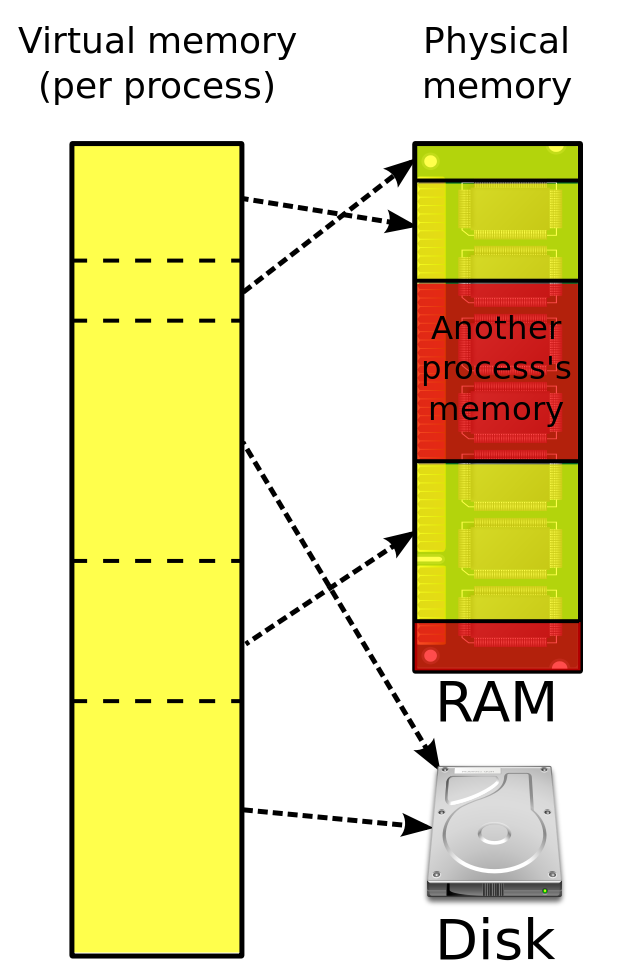
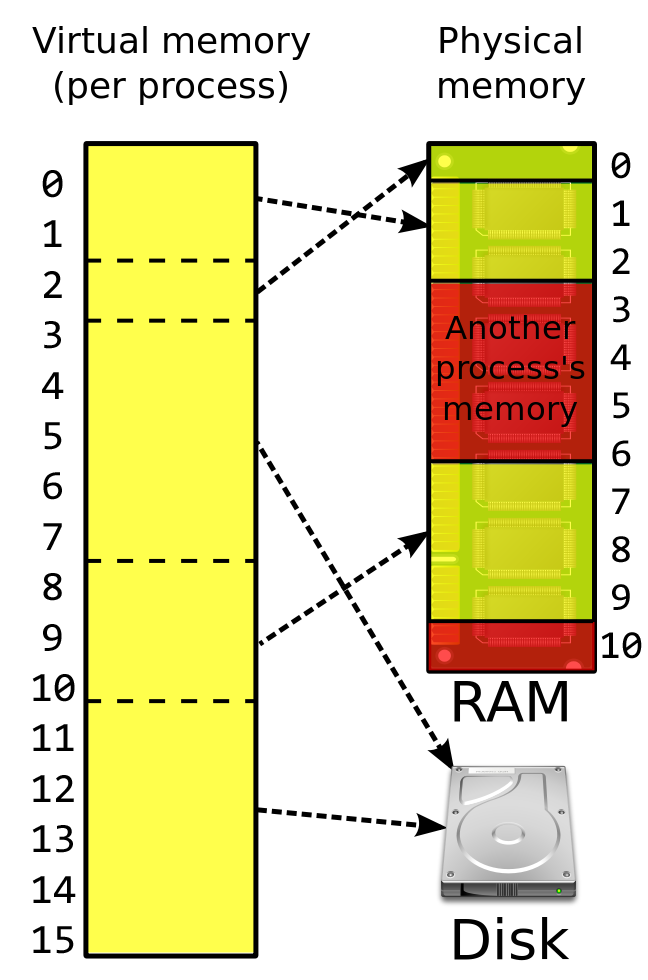
Heavy edits to OS/ParallelProcessing

diff --git a/_sources/ParallelProcessing/AmdahlsLaw.rst b/_sources/ParallelProcessing/AmdahlsLaw.rst
@@ -6,7 +6,7 @@ Parallel vs Serial Performance
     
 Having multiple core computers is wonderful if you want to do multiple jobs at one time. But it does not necessarily improve our ability to do any one particular job faster. That is because normal algorithms do not always divide up into equal sized chunks of work. 
 
-For any given task, there are likely parts that are **serial** (ones that must be done in order) and parts that are **parallel** (that can be done at the same time or even out of order). Say I have a giant pile of index cards with definitions written on them but the cards are all jumbled up and I want to find one with information about Amdahl's Law and add facts from it to this page. Fortunately I have 4 friends with me. I could divide up the cards, give each person a pile and tell them what to look for. Then all five of us could search our pile. Once someone finds the right card, they can announce it and give it back for me to use. This program might look like:
+For any given task, there are likely parts that are **serial** (ones that must be done in order) and parts that are **parallel** (that can be done at the same time or even out of order). Say I have a giant pile of index cards with definitions written on them. I want to find one with information about Amdahl's Law and add facts from it to this page but the cards are all jumbled up. Fortunately I have 4 friends with me. I could divide up the cards, give each person a pile and tell them what to look for. Then all five of us could search our pile. Once someone finds the right card, they can announce it and give it back for me to use. This program might look like:
 
 .. faux_code::
 
@@ -18,21 +18,21 @@ For any given task, there are likely parts that are **serial** (ones that must b
 
 Searching piles for the right card should only take 1/5th as long with 5 people looking. But dividing up the piles, communicating and typing up the fact will not go any faster. I could add 95 more friends and cut the "looking" phase down to 1/100th of the original time, but that won't help me type the information we find up any faster. We can speed up parallel parts by doing them simultaneously, but serial portions can not be sped up.
 
-The figure below on the left shows how the total time depends on how much work can be split up and how many workers we have. The one on the right compares total time on a hypothetical job for 1-5 workers.
+The figure below on the left shows how the total time depends on how much work can be split up and how many workers we have. The one on the right compares total time on a hypothetical job for 1-5 workers. Notice that although more workers means less time on the parallel part, the serial part always takes the same time.
 
 .. container:: inlinegroup
 
     .. figure:: Images/amdahl1.png
         :figwidth: 45%
         
-        Effect of splitting parallel part of job in 5
+        Effect of splitting parallel part of job in 5.
         
         
     
     .. figure:: Images/amdahl2.png
         :figwidth: 45%
 
-        Going from 1 to 2 workers has more effect than going from 4 to 5
+        Going from 1 to 2 workers has more effect than going from 4 to 5.
 
 |br|
        
@@ -42,17 +42,17 @@ This feature of diminishing returns due to a serial part of problems was codifie
 
 :math:`\textrm{Speedup}(N) = \frac{1}{(1-P) + \frac{P}{N}}`
 
-Say 60% of a job can be made parallel and we use 2 processors. Substituting into the formula gives:
+Say 60% of a job can be made parallel and we use 2 processors. Substituting .60 for **P** and 2 for **N** into the formula gives:
 
 :math:`\textrm{Speedup}(N) = \frac{1}{(1-P) + \frac{P}{N}} = \frac{1}{(1-0.60) + \frac{0.60}{2}} = \frac{1}{0.70} = 1.43`
 
-40% of the work needs to be done in serial. The other 60% is split into two equal parts, so instead of taking 60% of the time only takes 30%. So we can get the work done in 70% of the original time, or 1.43x faster.
+We would see a speedup of 1.43 times. 40% of the work needs to be done in serial. The other 60% is split into two equal parts, so instead of taking 60% of the time only takes 30%. So we can get the work done in 70% of the original time, or 1.43x faster.
 
 Lets say we use 3 workers on the same job:
 
 :math:`\textrm{Speedup}(N) = \frac{1}{(1-P) + \frac{P}{N}} = \frac{1}{(1-0.60) + \frac{0.60}{3}} = \frac{1}{0.60} = 1.67`
 
-We get the work done 1.67 times faster than with one worker (takes 60% of the original time). Better, but we are already seeing the diminishing returns of multiple workers. If we try putting 60 workers into that formula it predicts a total speedup of only 2.43x over one worker. The image below shows the speedup possible for jobs with 50%, 75%, 90% and 95% parallel portions. 
+We get the work done 1.67 times faster than with one worker (i.e. the work takes 60% of the original time). Better, but we are already seeing the diminishing returns of multiple workers. The first extra worker made the process 43% faster - the second extra worker only increased by 24% more. If we try putting 60 workers into that formula it predicts a total speedup of only 2.43x over one worker! The image below shows the speedup possible for jobs with 50%, 75%, 90% and 95% parallel portions. 
 
 .. figure:: Images/AmdahlsLaw.png
 

diff --git a/_sources/OperatingSystems/VirtualMemory.rst b/_sources/OperatingSystems/VirtualMemory.rst
@@ -5,17 +5,24 @@
 Memory Management
 =================================
 
-Modern computer processors have memory addresses `given by 48 bits <http://en.wikipedia.org/wiki/X86-64#Virtual_address_space_details>`__. That means they can store address :math:`2^{48}` (256TB - over 200 trillion) different byte location. On the other hand, a nice personal computer may only have 8 GB (or ~8 billion bytes) of actual main memory (RAM). In other words, a program may think it can store information in 200 trillion different locations but there are only 8 billion actual places where a byte can go in memory.
+Modern PC processors often have memory addresses `given by 48 bits <http://en.wikipedia.org/wiki/X86-64#Virtual_address_space_details>`__. That means they can store address :math:`2^{48}` (256TB - over 200 trillion) different byte location. On the other hand, a nice personal computer may only have 8 GB (or ~8 billion bytes) of actual main memory (RAM). In other words, a program may think it can store information in 200 trillion different locations but there are only 8 billion actual places where a byte can go in memory.
 
 Not only are there significantly more addresses that a program is allowed to use than actually exist, every program that is running thinks it gets to use nearly the entire memory space. Two programs may both decide to store a piece of information at byte address #100000 - the operating system needs to make sure that neither program destroys the other's information and that they can both get to what they stored.
 
-Operating systems can address both of these issues through memory address visualization. The basic idea is that the operating system takes any memory reference from a program and remaps it to a location in main memory. What a program thinks is address #100000 may actually be at address #203434. When a second program asks to store information at address #100000, that is mapped to a completely different location, say #834255.
+Operating systems can address both of these issues through memory address visualization. The basic idea is that the operating system takes any memory reference from a program (a **virtual address**) and remaps it to a location in main memory. What a program thinks is address #100000 may actually be at address #203434. When a second program asks to store information at address #100000, that is mapped to a completely different location, say #834255.
 
-If main memory is full, the operating system moves information to secondary memory (like the hard drive) but pretends it is still in main memory (this trick is known as **virtual memory**).
+If main memory is full, the operating system moves information to secondary memory (like the hard drive) but pretends it is still in main memory (this trick is known as **virtual memory**). Although this allows the computer to pretend there is more RAM available, it also means that any access of that memory involves retrieving it from the hard drive, which is tens of thousands of times slower. When needed, it will be swapped into memory and something else will be moved to the hard drive. If multiple programs are fighting over a limited memory and keep kicking each other to the hard drive. If you have ever started up too many programs at once and had your computer grind to a crawl, you have seen this in practice.
   
 .. figure:: Images/Virtual_memory.png
-    :figwidth: 60%
+    :figwidth: 90%
+    :width: 300
 
     `Image via Wikipedia Commons <http://en.wikipedia.org/wiki/Virtual_memory#mediaviewer/File:Virtual_memory.svg>`__ - `Creative Commons CC BY SA 3.0 <http://creativecommons.org/licenses/by-sa/3.0/>`__
+    
+    The 15 memory addresses a program is using and how they might be stored in hardware. When the program asks for address 1 it actually makes use of physical address 2, when it asks for 2 it gets address 0. 
+    
+    Some parts of main memory area (3-6 and 10) in use by other programs and not available to the "yellow" program. 
+    
+    Because the program is using more memory than is actually available in RAM, its memory address3-7 and 11-15 are currently actually being stored on the hard drive.
    
-The operating system (working with the hardware) must do a lot of extra work to manage this mapping. Each time a program refers to a memory location, the OS must look up the correct address and reroute the memory access. As main memory fills up, information must be moved to the hard drive and then swapped back into main memory again when needed.
+However, all this juggling is compltely invsible to running programs. The operating system provides the abstraction of a nice clean sequential set of memory addresses for each program to use while doing complicated tricks in the background to allocate the physical hardware among all the different running processes.

diff --git a/_sources/ParallelProcessing/MultiProcessing.rst b/_sources/ParallelProcessing/MultiProcessing.rst
@@ -15,19 +15,19 @@ Multi Processing
    
 In the year 2002, Intel's flagship consumer processor was the Pentium 4 running at 3.06 GHz (meaning the CPU clock ticks 3 billion times per second). The architecture of this processor was supposed to scale up to 10 GHz, but by 2005, Intel had to abandon the architecture as the power density of the chips was becoming unmanageable. Intel shifted to a new strategy and architecture called the Core architecture. 
 
-These new chips were not clocked as fast as the ones they replaced, but they featured multiple processing cores.  Chip designers had figured out that by reducing the clock speed by say 20%, they could also reduce the voltage, cutting the power required by the processor nearly in half. The chip might not be quite as fast, but because processors were getting smaller anyway, you could fit two or more on the same chip. The two processing cores would thus use the same amount of power as one faster chip, but spread the power out over twice the area, making it easier to manage. Each of these processing cores can work independently - assuming they each can process 80% of what one higher speed chip could, that means a 60% increase in processing power.
+These new chips were not clocked as fast as the ones they replaced, but they featured multiple processing cores.  Chip designers had figured out that by reducing the clock speed by say 20%, they could also reduce the voltage, cutting the power required by the processor nearly in half. The chip might not be quite as fast, but because processors were getting smaller anyway, you could fit two or more on the same chip. The two processing cores would thus use the same amount of power as one faster chip, but spread the power out over twice the area, making it easier to manage. Each of these processing cores can work independently - assuming they each can process 80% of what one higher speed chip could, that means a total increase in processing power of 60%.
 
 =============================================  ==============================  ==============================
 \                                               1 Fast Core                     2 Cores
 =============================================  ==============================  ==============================
-**Speed**                                       100%                            80% each
+**Speed**                                       100%                            80%
 **Power**                                       100%                            100% (50% each)
 **Area**                                        1                               2
 **Power Density**                               100%/1 = 100%                   100%/2 = 50%
 **Instruction Processing Power**                100%                            160%
 =============================================  ==============================  ==============================
 
-Now days, just about every computer processor is **multi-core**. Personal computers routinely come with four or more processing cores. Computer graphics cards have thousands of processing units (though they are optimized to perform specific types of jobs). Super computers, like `IBM's Watson computer that beat the best human Jeopardy players <https://www.youtube.com/watch?v=FC3IryWr4c8>`__, combine thousands of processors into room sized devices.
+Now days, just about every computer processor is **multi-core**. Personal computers routinely come with four or more processing cores. Computer graphics cards have thousands of processing units (though they are optimized to perform very specific types of work). Super computers, like `IBM's Watson computer that beat the best human Jeopardy players <https://www.youtube.com/watch?v=FC3IryWr4c8>`__, combine thousands of processors into room sized devices.
 
 Unfortunately, adding processing cores greatly complicates programming a computer. It is not the cases that we can add a second core and magically run every program twice as fast. The following pages introduce some of the issues we encounter with multi core systems.
 

diff --git a/_sources/OperatingSystems/ProcessManagement.rst b/_sources/OperatingSystems/ProcessManagement.rst
@@ -15,7 +15,7 @@ A computer program is just a static collection of code and data. Once we start r
 
 Most modern operating systems are capable of **multi-tasking**, that is to say of running more than one process at a time. Multiple programs can be running at the same time (including multiple copies of the same program). On a computer with a single processor core, only one of these processes can be running at any given time. The other processes all have to sit in a "ready queue" waiting their turn to run. Processes that are waiting for a slow event (like reading or writing a file to a hard drive) to complete and have no work to do until that finishes are put in a "waiting" state until the event completes. 
 
-Hundreds of times a second, the hardware interrupts the running program and gives the operating system a chance to run. It also gets swapped into the processor to handle messages from the hardware (\ *"hey, the mouse was clicked"*). Each time the OS is being run it processes any events that need to be handled and then either restarts the program that was running or picks a program from the ready queue to be run next. By switching tasks every few milliseconds, the processor makes it look like it is doing multiple things at once.
+Hundreds of times a second, the hardware interrupts the running program and gives the operating system a chance to run. It also gets swapped into the processor to handle messages from the hardware (\ *"hey, the mouse was clicked"*). Each time the OS is being run it processes any events that need to be handled and then  restarts the program that was running. After one perogram has been running for a certain period of time, the OS sends it back to the ready queue and picks a new program to run for a while. By switching tasks every few milliseconds, the processor makes it look like it is doing multiple things at once.
   
 .. figure:: Images/ProcessStateDiagram.swf
    :width: 550
@@ -23,4 +23,6 @@ Hundreds of times a second, the hardware interrupts the running program and give
 
    `Animation used by permission of Virgnia Tech <http://courses.cs.vt.edu/csonline/>`__
    
-Many CPUs feature multiple processing "cores" and so actually can be running instructions from two or more processes at once. But the basic model still holds - each processing core is constantly switching between different processes.
+   Processes wait their turn in the ready queue. Once running, they continue until they are ready to terminate or the OS decides they have had enough time and need to give someone else a turn. To do input or output, a process must call the OS, which will put them in a waiting state until the hardware has processed the request.
+   
+Many modern CPUs feature multiple processing "cores" and can be running instructions from two or more processes at once. But the basic model still holds - each processing core is constantly switching between different processes.

diff --git a/_sources/ParallelProcessing/MooresLaw.rst b/_sources/ParallelProcessing/MooresLaw.rst
@@ -13,11 +13,11 @@ Moore's Law
         Image © Intel Corporation
     
     
-In the 1960's, Gordon Moore, one of the co-founders of Intel, noticed that integrated circuits were becoming more complex at an exponential rate. He predicted that this growth would continue - that the number of transistors on a circuit would double every two years. This prediction came to be called **Moore's Law**. Although Moore's Law talked only about the number of components on a chip, other people have modified it to attempts to predict overall performance increases based on increases in both complexity and speed. The generally quoted number for overall processing power growth is a doubling every 18 months.
+In the 1960's, Gordon Moore, one of the co-founders of Intel, noticed that integrated circuits were becoming more complex at an exponential rate. He predicted that this growth would continue - that the number of transistors on a circuit would double every two years. This prediction came to be called **Moore's Law**. Although Moore was focused on the number of transistors on a chip, others have expanded his idea into a prediction for overall performance increases. The combined benefits of increased complexity and speed in chips has resulted in processing power doubling every 18 months. Thus the term "Moore's Law" is used to refer to this idea that overall processing power doubles every year and a half.
 
-Using the pattern of doubled power every 1.5 years, that means that a processor that comes out today is roughly 4x more powerful than one from 3 years ago and 16x more powerful than one from six years ago. (Which helps explain why computers need to be upgraded so frequently.) This doubling of computing power in a chip every 1.5-2 years has held steady for the past 40+ years. 
+Based on this idea that processing power doubles every 1.5 years, a processor that comes out today is roughly 4x more powerful than one from 3 years ago and 16x more powerful than one from six years ago. (Which helps explain why computers need to be upgraded so frequently.) 
 
-To put this kind of growth into perspective: If Moore’s Law applied to the air travel industry, a flight from New York to Paris that took 7 hours and cost $900 in 1978 would now require about 1/10th of a second and cost under a penny.
+This continuous doubling and redoubling of computing power in chips has held steady for the past 40+ years. To put this kind of growth into perspective: If Moore’s Law applied to the air travel industry, a flight from New York to Paris that took 7 hours and cost $900 in 1978 would now require about 1/10th of a second and cost under a penny.
 
     
 .. figure:: Images/TransistorCounts.png

diff --git a/_sources/OperatingSystems/OperatingSystems.rst b/_sources/OperatingSystems/OperatingSystems.rst
@@ -21,7 +21,7 @@ Although the simplest microprocessors (like those inside simple electronic devic
 
     UNIX is an operating system developed in the 1970s at AT&T. It became the most common operating system for computers in academia and industry. To this day, UNIX based computers remain popular in environments where developers want unfettered control over how the operating system works.
     
-    There are many "flavors" of UNIX and operating systems based on UNIX (sometimes refereed to as "*nixes"). Apple's OSX is related to a flavor of UNIX. Linux is a free Unix-like operating system.
+    There are many "flavors" of UNIX and operating systems based on UNIX (sometimes refereed to as "*nixes"). Apple's OSX is related to a UNIX based operating system. Linux is a free Unix-like operating system.
     
     
 Operating systems that solve similar problems on similar hardware tend to themselves be similar. Windows, OSX, and Linux desktops all provide similar ways to view files, and interact with programs because they are used on personal computers with mice and keyboards. Phone operating systems like Android and iOS are similar because they generally operate on devices with smaller screens that are touch sensitive.
@@ -36,4 +36,13 @@ You are probably most familiar with the kind of operating system that runs on a 
 
 * Batch
     An operating system optimized to run programs from a list of jobs. The processing time of large scientific computers is too valuable to waste on interacting with humans searching around in folders and typing commands. Instead, programs must be added to the list of jobs the computer is working on - as soon as one job is finished, the next is immediately loaded and started.
-        
+
+.. note:: **What's the deal with Linux?**
+
+    You may or may not have tried working with a PC running Linux - it is an alternative to Windows or Mac OSX for powering personal computers. But it also the operating system that powers many of the electrical devices in your home, the majority of web servers in the world as well as most big scientific computers.
+    
+    Where did it come from? Why is it so popular? This video tells the quick version of the story of Linux and free, open source software:
+    
+    .. youtube:: 5ocq6_3-nEw
+        :height: 320
+        :width: 570

diff --git a/_sources/NineAlgorithms/DatabasesAndConcurrency.rst b/_sources/NineAlgorithms/DatabasesAndConcurrency.rst
@@ -4,8 +4,29 @@
 Databases And Concurrency (Ch 8) 
 =========================================
 
+.. pseudo_h3:: An introduction to Databases
+    :class: underlined
+    
+Although the Nine Algorithms chapter covers most of this material as it goes, watching these two videos will help you understand how databases work and make the chapter a much easier read.
+
+This first video introduces what databases are and what they are used for:
+
+.. youtube:: t8jgX1f8kc?list=PLCnMet96WqvNkJ0SzRF0HHmnBiGFydmqe&index=1
+    :height: 315
+    :width: 560
+
+This video introduces the idea of relational data:
+
+.. youtube:: ia4eCxPPc_o?list=PLCnMet96WqvNkJ0SzRF0HHmnBiGFydmqe&index=3
+    :height: 315
+    :width: 560
+    
+.. pseudo_h3:: Transactions and CS 
+    :class: underlined
+
+    
 The common thread for this week is managing concurrent use of resources. We have seen that hardware developments are increasingly focused on multicore processors and how operating systems manage all the processes running in a computer.
 
-In this environment, databases are particularly interesting. The programmers of database servers that manage central records for companies have been dealing with problems of concurrency for decades; the rest of us are just learning to deal with the problems that they have been fighting with for years. One currently popular area of research in computer science is `Software Transactional Memory <http://en.wikipedia.org/wiki/Software_transactional_memory>`__ - trying to adapt the idea of transactions to general programming.
+In this environment, databases are particularly interesting. The programmers of database servers have been dealing with problems of concurrency for decades; the rest of us are just starting to face some of the problems they have been struggling with for years. One currently popular area of research in computer science is `Transactional Memory <http://en.wikipedia.org/wiki/Transactional_memory>`__ - implementing the idea of transactions as a feature of either hardware or software to make programming for parallel processing easier.
 
 

diff --git a/_sources/ParallelProcessing/Synchronization.rst b/_sources/ParallelProcessing/Synchronization.rst
@@ -29,9 +29,9 @@ Depending on the timing, we could end up with 15, 6 or 16 stored as the value fo
 * A finishes completely (``x`` now 15) and then B goes (``x`` now 16)
 * B finishes completely (``x`` now 6) and then A goes (``x`` now 16)
 * A1 runs, program A gets 5. B1 runs, B gets 5. B finishes steps 2 and 3, (``x`` now is 6). Then A finishes steps 2 and 3 but using the value of 5 it already retrieved (``x`` now is 15)
-* A1 runs, program A gets 5. B1 runs, B gets 5. A finishes steps 2 and 3, (``x`` now is 15). Then B finishes steps 2 and 3 but using the value of 5 it already retrieved (``x`` now is 6
+* A1 runs, program A gets 5. B1 runs, B gets 5. A finishes steps 2 and 3, (``x`` now is 15). Then B finishes steps 2 and 3 but using the value of 5 it already retrieved (``x`` now is 6)
 
-The potential for different results depending on which worker acts first is called a **race condition** and leads to nasty bugs in programs (you likely only see the error occasionally making it very hard to track down).
+The potential for different results depending on which worker acts first is called a **race condition** and leads to nasty bugs in programs (you likely only see the error occasionally, making it very hard to track down).
 
 .. pseudo_h3:: Locks and Deadlock
     :class: underlined

diff --git a/_sources/OperatingSystems/OperatingSystemJobs.rst b/_sources/OperatingSystems/OperatingSystemJobs.rst
@@ -36,4 +36,4 @@ Instead of that nightmare situation, the operating system provides an **abstract
 Related to the job of hardware abstraction is providing tools to other programs to interact with users in a consistent and effective manner. Operating systems provide application programming interfaces (APIs) that include tools for doing things like drawing windows. Rather than each application designer deciding what windows should look like, what font to use in the title bar, where to put the close button, etc... the operating system provides code that takes care of those details. Not only does this makes programming an application easier, it also helps enforce a consistent experience for the user.
 
 
-We could fill books with all the ways that operating systems provide allocation of and abstraction for computer hardware, but on the following pages we will constrain our tour to two fundamental resources: main memory and processors.
+We could fill books with all the ways that operating systems provide allocation of and abstraction for computer hardware, but on the following pages we will foucs on two fundamental resources: processors and main memory.

diff --git a/_sources/OperatingSystems/index.rst b/_sources/OperatingSystems/index.rst
@@ -13,8 +13,8 @@ A computer's **Operating System** is the software that manages the low level fun
 
     OperatingSystems.rst
     OperatingSystemJobs.rst
-    VirtualMemory.rst
     ProcessManagement.rst
+    VirtualMemory.rst
     
 
 
